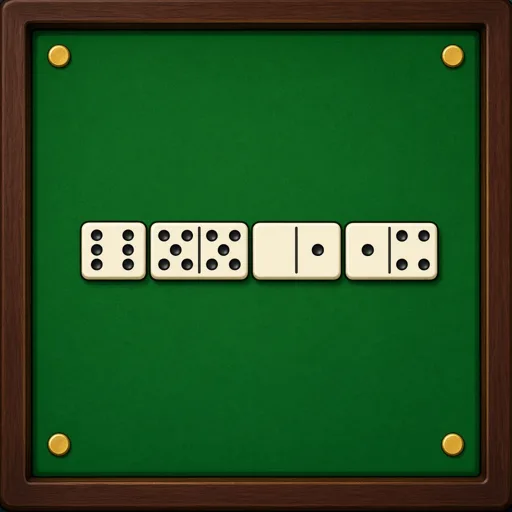
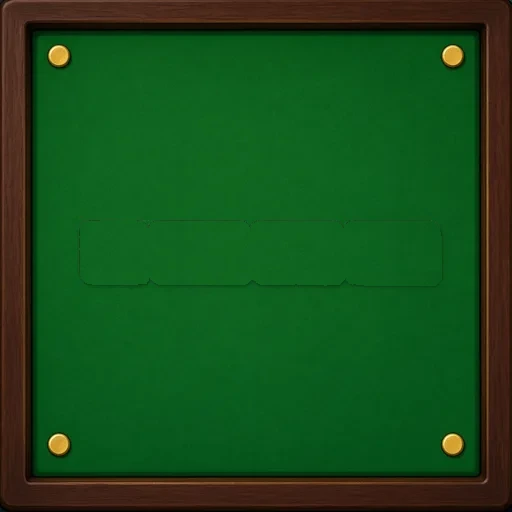
Take the sample dominoes off the table art so each played tile is drawn once.
The green and red felts had a decorative chain baked into the picture, and it showed through behind the real board. Long chains also scale down to stay inside the felt.

Changed region(s): [[0.1562, 0.4062, 0.875, 0.5625]]

diff --git a/packages/web/src/store.tsx b/packages/web/src/store.tsx
@@ -178,7 +178,7 @@ export function useMatchCosmetics(): { skin: string; tableArt: string | null } {
         const tile = body.items.find((item) => item.id === body.loadout.tileId);
         setWear({
           skin: tile?.skin || "ivory",
-          tableArt: body.loadout.tableId ? `/store/${body.loadout.tableId}.webp` : null,
+          tableArt: body.loadout.tableId ? `/store/${body.loadout.tableId}.webp?v=2` : null,
         });
       })
       .catch(() => undefined);
@@ -301,6 +301,7 @@ function Price({ item, owned, wearing }: { item: StoreItem; owned: boolean; wear
 function artSrc(item: StoreItem): string | null {
   if (!item.art) return null;
   if (item.avatarId) return `/avatars/${item.avatarId}.webp`;
+  if (item.category === "table") return `/store/${item.id}.webp?v=2`;
   return `/store/${item.id}.webp`;
 }
 

diff --git a/packages/web/src/table.tsx b/packages/web/src/table.tsx
@@ -94,7 +94,12 @@ export function Table({
       const width = viewport.clientWidth;
       const height = viewport.clientHeight;
       if (width < 8 || height < 8) return;
-      const next = Math.min(width / layout.fit.w, height / layout.fit.h, width >= 800 ? 2.4 : 2.2);
+      // Keep the chain on the green, inside the wooden rails, on a phone.
+      const padX = 12;
+      const padY = 28;
+      const roomW = Math.max(48, width - padX * 2);
+      const roomH = Math.max(48, height - padY * 2);
+      const next = Math.min(roomW / layout.fit.w, roomH / layout.fit.h, width >= 800 ? 2.4 : 2.2);
       setScale((current) => (Math.abs(current - next) < 0.01 ? current : next));
     };
     measure();

diff --git a/packages/web/src/App.tsx b/packages/web/src/App.tsx
@@ -366,7 +366,7 @@ function Game({
 }) {
   const link = tableLink(view.roomCode, window.__UHOH__?.publicUrl, location.origin);
   const cosmetics = useMatchCosmetics();
-  const tableArt = view.tableId ? `/store/${view.tableId}.webp` : null;
+  const tableArt = view.tableId ? `/store/${view.tableId}.webp?v=2` : null;
   const tileSkin = cosmetics.skin || "ivory";
   void dismissedHand;
   const [drag, setDrag] = useState<{ tileId: string; aimEndId: string | null } | null>(null);
